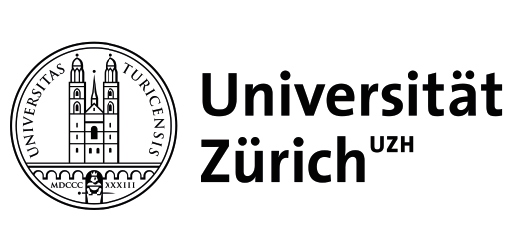
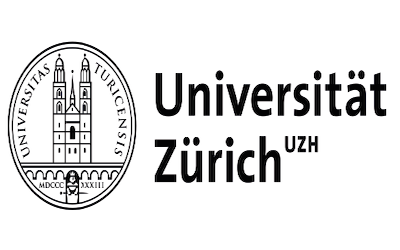
ho aggiunto i colori per farti ricordare che si possono mettere, ora sembra un po' piu' vivo

diff --git a/themes/cards/layouts/taxonomy/tag.html b/themes/cards/layouts/taxonomy/tag.html
@@ -18,11 +18,11 @@
                   {{ end }}
                   
                   <div class="panel-body">
-                    <h3 class="panel-title pull-left">{{ .Title | truncate 25 }}</h3><span class="post-meta pull-right"><small>{{ .Date.Format "January 2, 2006" }}</small></span>
+                    <h3 class="panel-title pull-left">{{ .Title | truncate 35 }}</h3><span class="post-meta pull-right"><small>{{ .Date.Format "January 2, 2006" }}</small></span>
                   </div>
                   
                   <div class="panel-body"><small>
-                    {{ .Summary | plainify | truncate 180 }}</small>
+                    {{ .Summary | plainify | truncate 100 }}</small>
                   </div>
                 </div>
                 </a>

diff --git a/themes/cards/layouts/_default/list.html b/themes/cards/layouts/_default/list.html
@@ -18,7 +18,7 @@
                   {{ end }}
                   
                   <div class="panel-body">
-                    <h3 class="panel-title pull-left">{{ .Title | truncate 35 }}</h3><span class="post-meta pull-right"><small>{{ .Date.Format "January 2, 2006" }}</small></span>
+                    <h3 class="panel-title">{{ .Title | truncate 30 }}</h3><span class="panel-meta pull-right"><small>{{ .Date.Format "January 2, 2006" }}</small></span>
                   </div>
                   
                   <div class="panel-body"><small>

diff --git a/themes/cards/layouts/partials/header.html b/themes/cards/layouts/partials/header.html
@@ -1,5 +1,5 @@
 <header class="site-header">
-<nav class="navbar navbar-default">
+<nav class="navbar navbar-default" style="background-color: white;">
   <div class="container-fluid">
     <!-- Brand and toggle get grouped for better mobile display -->
     <div class="navbar-header">

diff --git a/themes/cards/layouts/_default/baseof.html b/themes/cards/layouts/_default/baseof.html
@@ -1,9 +1,8 @@
 <!DOCTYPE html>
 <html>
-
   {{ partial "head.html" .}}
 
-  <body>
+  <body style="background-color: MediumSeaGreen;">
 
     {{ partial "header.html" . }}
 

diff --git a/themes/cards/layouts/partials/footer.html b/themes/cards/layouts/partials/footer.html
@@ -1,4 +1,4 @@
-<footer>
+<footer style="background-color: white;">
     <div class="container">
         <div class="row p20">
             {{ with .Site.Params.copyright }}

diff --git a/content/posts/buss.md b/content/posts/buss.md
@@ -1,7 +1,7 @@
 ---
 layout: post
 title: International Biology Undergraduate Summer School Zurich
-img: Universitaetzuerich.png
+img: UZH-logo.png
 tags: ["tag_a", "tag_b"]
 date: 2019-10-28
 ---
